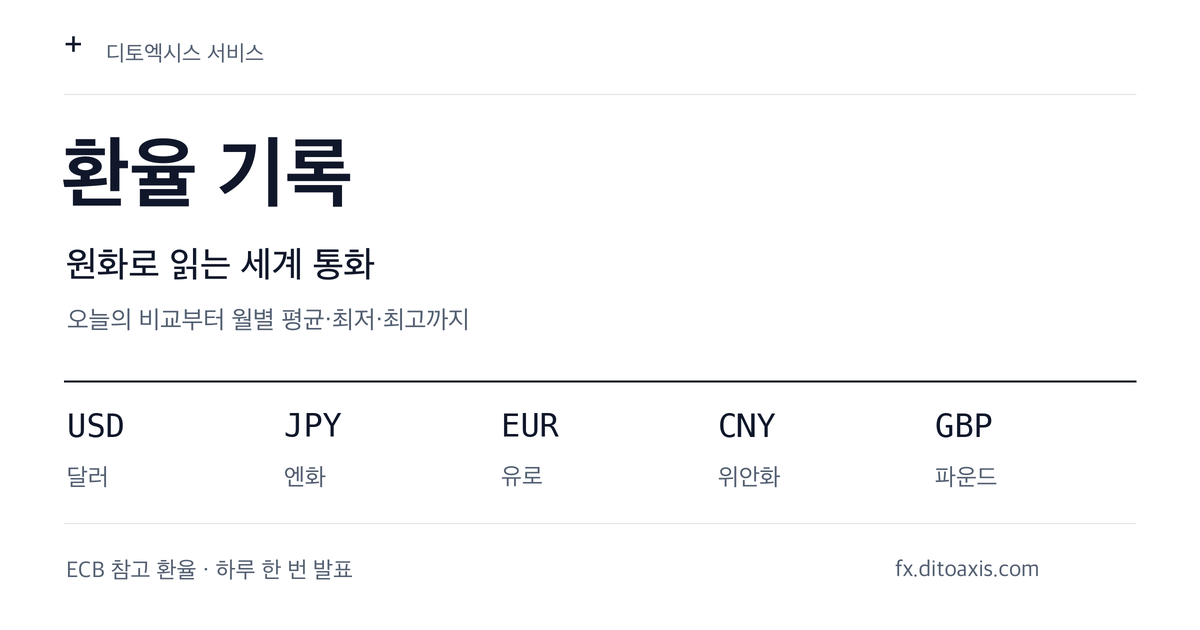
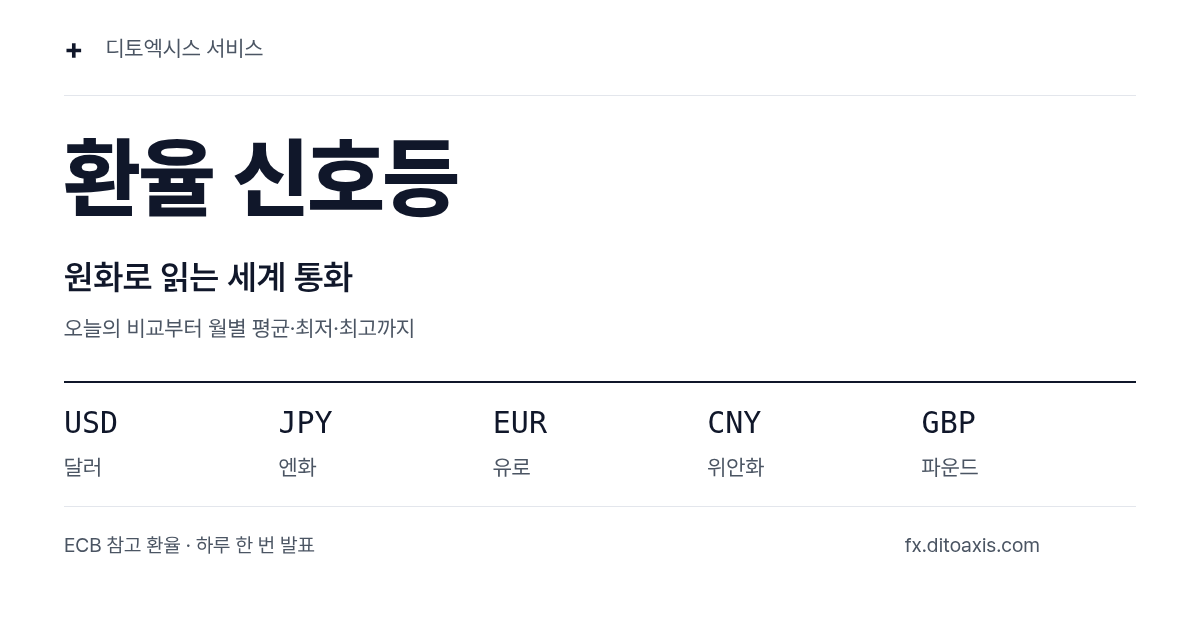
fx: rename web site 환율 기록 -> 환율 신호등 (title, og:site_name, og image, header, dx menu)

diff --git a/fx.py b/fx.py
@@ -360,12 +360,12 @@ def shell(title: str, path: str, body: str, slot="", noindex=False) -> str:
           '<script>(window.adsbygoogle=window.adsbygoogle||[]).push({});</script>') if slot else ''
     return f'''<!doctype html>
 <html lang="ko"><head><meta charset="utf-8"><meta name="viewport" content="width=device-width,initial-scale=1">
-<title>{e(title)} | 환율 기록</title><meta name="description" content="{e(description)}">
+<title>{e(title)} | 환율 신호등</title><meta name="description" content="{e(description)}">
 <link rel="canonical" href="{e(canonical)}"><meta property="og:url" content="{e(canonical)}">
-<meta property="og:type" content="website"><meta property="og:locale" content="ko_KR"><meta property="og:site_name" content="환율 기록">
+<meta property="og:type" content="website"><meta property="og:locale" content="ko_KR"><meta property="og:site_name" content="환율 신호등">
 <meta property="og:title" content="{e(title)}"><meta property="og:description" content="{e(description)}">
 <meta property="og:image" content="{SITE_URL}/assets/og.png"><meta property="og:image:width" content="1200"><meta property="og:image:height" content="630">
-<meta property="og:image:type" content="image/png"><meta property="og:image:alt" content="환율 기록 · 원화로 읽는 세계 통화 · 달러·엔화·유로·위안화·파운드">
+<meta property="og:image:type" content="image/png"><meta property="og:image:alt" content="환율 신호등 · 원화로 읽는 세계 통화 · 달러·엔화·유로·위안화·파운드">
 <meta name="twitter:card" content="summary_large_image"><meta name="twitter:title" content="{e(title)}"><meta name="twitter:description" content="{e(description)}">
 <meta name="twitter:image" content="{SITE_URL}/assets/og.png">
 {'<meta name="robots" content="noindex,follow">' if noindex else ''}
@@ -374,8 +374,8 @@ def shell(title: str, path: str, body: str, slot="", noindex=False) -> str:
 <link rel="stylesheet" href="/assets/site.css"><script src="/assets/site.js" defer></script>
 <script async src="https://pagead2.googlesyndication.com/pagead/js/adsbygoogle.js?client={CLIENT}" crossorigin="anonymous"></script>
 <script defer src="https://ditoaxis.com/m.js"></script>
-</head><body><a class="skip" href="#main">본문으로 이동</a><nav class="dx-bar" aria-label="디토엑시스"><div class="dx-bar__in"><a class="dx-bar__home" href="https://ditoaxis.com/" aria-label="ditoaxis 디토엑시스 홈"><svg viewBox="0 0 24 24" fill="none" stroke="currentColor" stroke-width="2.3" stroke-linecap="round" stroke-linejoin="round" aria-hidden="true" focusable="false"><path d="M12 2v20M2 12h20M5 5l14 14"/></svg><span>ditoaxis</span><span class="dx-dot" aria-hidden="true"></span></a><details class="dx-more"><summary>디토엑시스 다른 서비스<svg viewBox="0 0 24 24" fill="none" stroke="currentColor" stroke-width="2" stroke-linecap="round" stroke-linejoin="round" aria-hidden="true" focusable="false"><path d="m6 9 6 6 6-6"/></svg></summary><div class="dx-more__panel"><p class="dx-more__title" id="dx-more-title">디토엑시스가 만든 서비스</p><ul class="dx-more__list" aria-labelledby="dx-more-title"><li><a href="https://dito.ditoaxis.com/"><span class="dx-more__name">Dito</span><span class="dx-more__desc">살 물건 비교, 할인, 장바구니 시세를 한곳에서 봐요</span></a></li><li><a href="https://exit.ditoaxis.com/"><span class="dx-more__name">퇴사 정산서</span><span class="dx-more__desc">퇴직금과 남은 연차수당을 미리 계산해요</span></a></li><li><a href="https://fx.ditoaxis.com/" aria-current="page"><span class="dx-more__name">환율 기록</span><span class="dx-more__desc">오늘 환율을 보고 원화로 바로 계산해요</span></a></li><li><a href="https://kospi.ditoaxis.com/"><span class="dx-more__name">밤사이 코스피</span><span class="dx-more__desc">어젯밤 미국 증시와 오늘 코스피를 나란히 봐요</span></a></li><li><a href="https://donbti.ditoaxis.com/"><span class="dx-more__name">지갑사주</span><span class="dx-more__desc">12문항으로 내 소비 유형을 알아봐요</span></a></li><li><a href="https://menu.ditoaxis.com/"><span class="dx-more__name">랜덤식탁</span><span class="dx-more__desc">오늘 먹을 메뉴를 골라 드려요</span></a></li><li><a href="https://giun.ditoaxis.com/"><span class="dx-more__name">오행 기운</span><span class="dx-more__desc">다섯 가지 기운을 만지며 잠깐 쉬어 가요</span></a></li></ul><a class="dx-more__all" href="https://ditoaxis.com/#products">디토엑시스 홈에서 전체 보기</a></div></details></div></nav><div class="wrap">
-<header><a class="brand" href="/">환율 기록<span>원화로 읽는 세계 통화</span></a><a href="/about/">집계 기준</a></header>
+</head><body><a class="skip" href="#main">본문으로 이동</a><nav class="dx-bar" aria-label="디토엑시스"><div class="dx-bar__in"><a class="dx-bar__home" href="https://ditoaxis.com/" aria-label="ditoaxis 디토엑시스 홈"><svg viewBox="0 0 24 24" fill="none" stroke="currentColor" stroke-width="2.3" stroke-linecap="round" stroke-linejoin="round" aria-hidden="true" focusable="false"><path d="M12 2v20M2 12h20M5 5l14 14"/></svg><span>ditoaxis</span><span class="dx-dot" aria-hidden="true"></span></a><details class="dx-more"><summary>디토엑시스 다른 서비스<svg viewBox="0 0 24 24" fill="none" stroke="currentColor" stroke-width="2" stroke-linecap="round" stroke-linejoin="round" aria-hidden="true" focusable="false"><path d="m6 9 6 6 6-6"/></svg></summary><div class="dx-more__panel"><p class="dx-more__title" id="dx-more-title">디토엑시스가 만든 서비스</p><ul class="dx-more__list" aria-labelledby="dx-more-title"><li><a href="https://dito.ditoaxis.com/"><span class="dx-more__name">Dito</span><span class="dx-more__desc">살 물건 비교, 할인, 장바구니 시세를 한곳에서 봐요</span></a></li><li><a href="https://exit.ditoaxis.com/"><span class="dx-more__name">퇴사 정산서</span><span class="dx-more__desc">퇴직금과 남은 연차수당을 미리 계산해요</span></a></li><li><a href="https://fx.ditoaxis.com/" aria-current="page"><span class="dx-more__name">환율 신호등</span><span class="dx-more__desc">오늘 환율을 보고 원화로 바로 계산해요</span></a></li><li><a href="https://kospi.ditoaxis.com/"><span class="dx-more__name">밤사이 코스피</span><span class="dx-more__desc">어젯밤 미국 증시와 오늘 코스피를 나란히 봐요</span></a></li><li><a href="https://donbti.ditoaxis.com/"><span class="dx-more__name">지갑사주</span><span class="dx-more__desc">12문항으로 내 소비 유형을 알아봐요</span></a></li><li><a href="https://menu.ditoaxis.com/"><span class="dx-more__name">랜덤식탁</span><span class="dx-more__desc">오늘 먹을 메뉴를 골라 드려요</span></a></li><li><a href="https://giun.ditoaxis.com/"><span class="dx-more__name">오행 기운</span><span class="dx-more__desc">다섯 가지 기운을 만지며 잠깐 쉬어 가요</span></a></li></ul><a class="dx-more__all" href="https://ditoaxis.com/#products">디토엑시스 홈에서 전체 보기</a></div></details></div></nav><div class="wrap">
+<header><a class="brand" href="/">환율 신호등<span>원화로 읽는 세계 통화</span></a><a href="/about/">집계 기준</a></header>
 <nav class="currencies" aria-label="통화 선택">{links}</nav><main id="main" tabindex="-1">{body}{ad}</main>
 <footer><p>ECB 참고 환율 · 하루 한 번 발표 · 은행 환율·실시간 시세와 달라요.</p>
 <p>출처: <a href="https://frankfurter.dev/">Frankfurter</a> · <a href="{ECB_URL}">ECB</a> · 원화 환산·통계는 가공 정보예요.</p>

diff --git a/tests/test_fx.py b/tests/test_fx.py
@@ -454,7 +454,7 @@ class PageTests(unittest.TestCase):
                 self.assertTrue(title.strip())
                 titles.add(title)
                 self.assertEqual(doc.head_titles, 1)
-                self.assertIn(title + " | 환율 기록", doc.text)
+                self.assertIn(title + " | 환율 신호등", doc.text)
                 self.assertTrue(doc.attrs("meta", name="description")[0]["content"])
                 image = fx.SITE_URL + "/assets/og.png"
                 for prop, value in (("og:image", image), ("og:image:width", "1200"),

diff --git a/README.md b/README.md
@@ -1,4 +1,4 @@
-# 환율 기록 · web edition
+# 환율 신호등 · web edition
 
 ## 기존 게시 데이터로 UI만 배포하기
 
